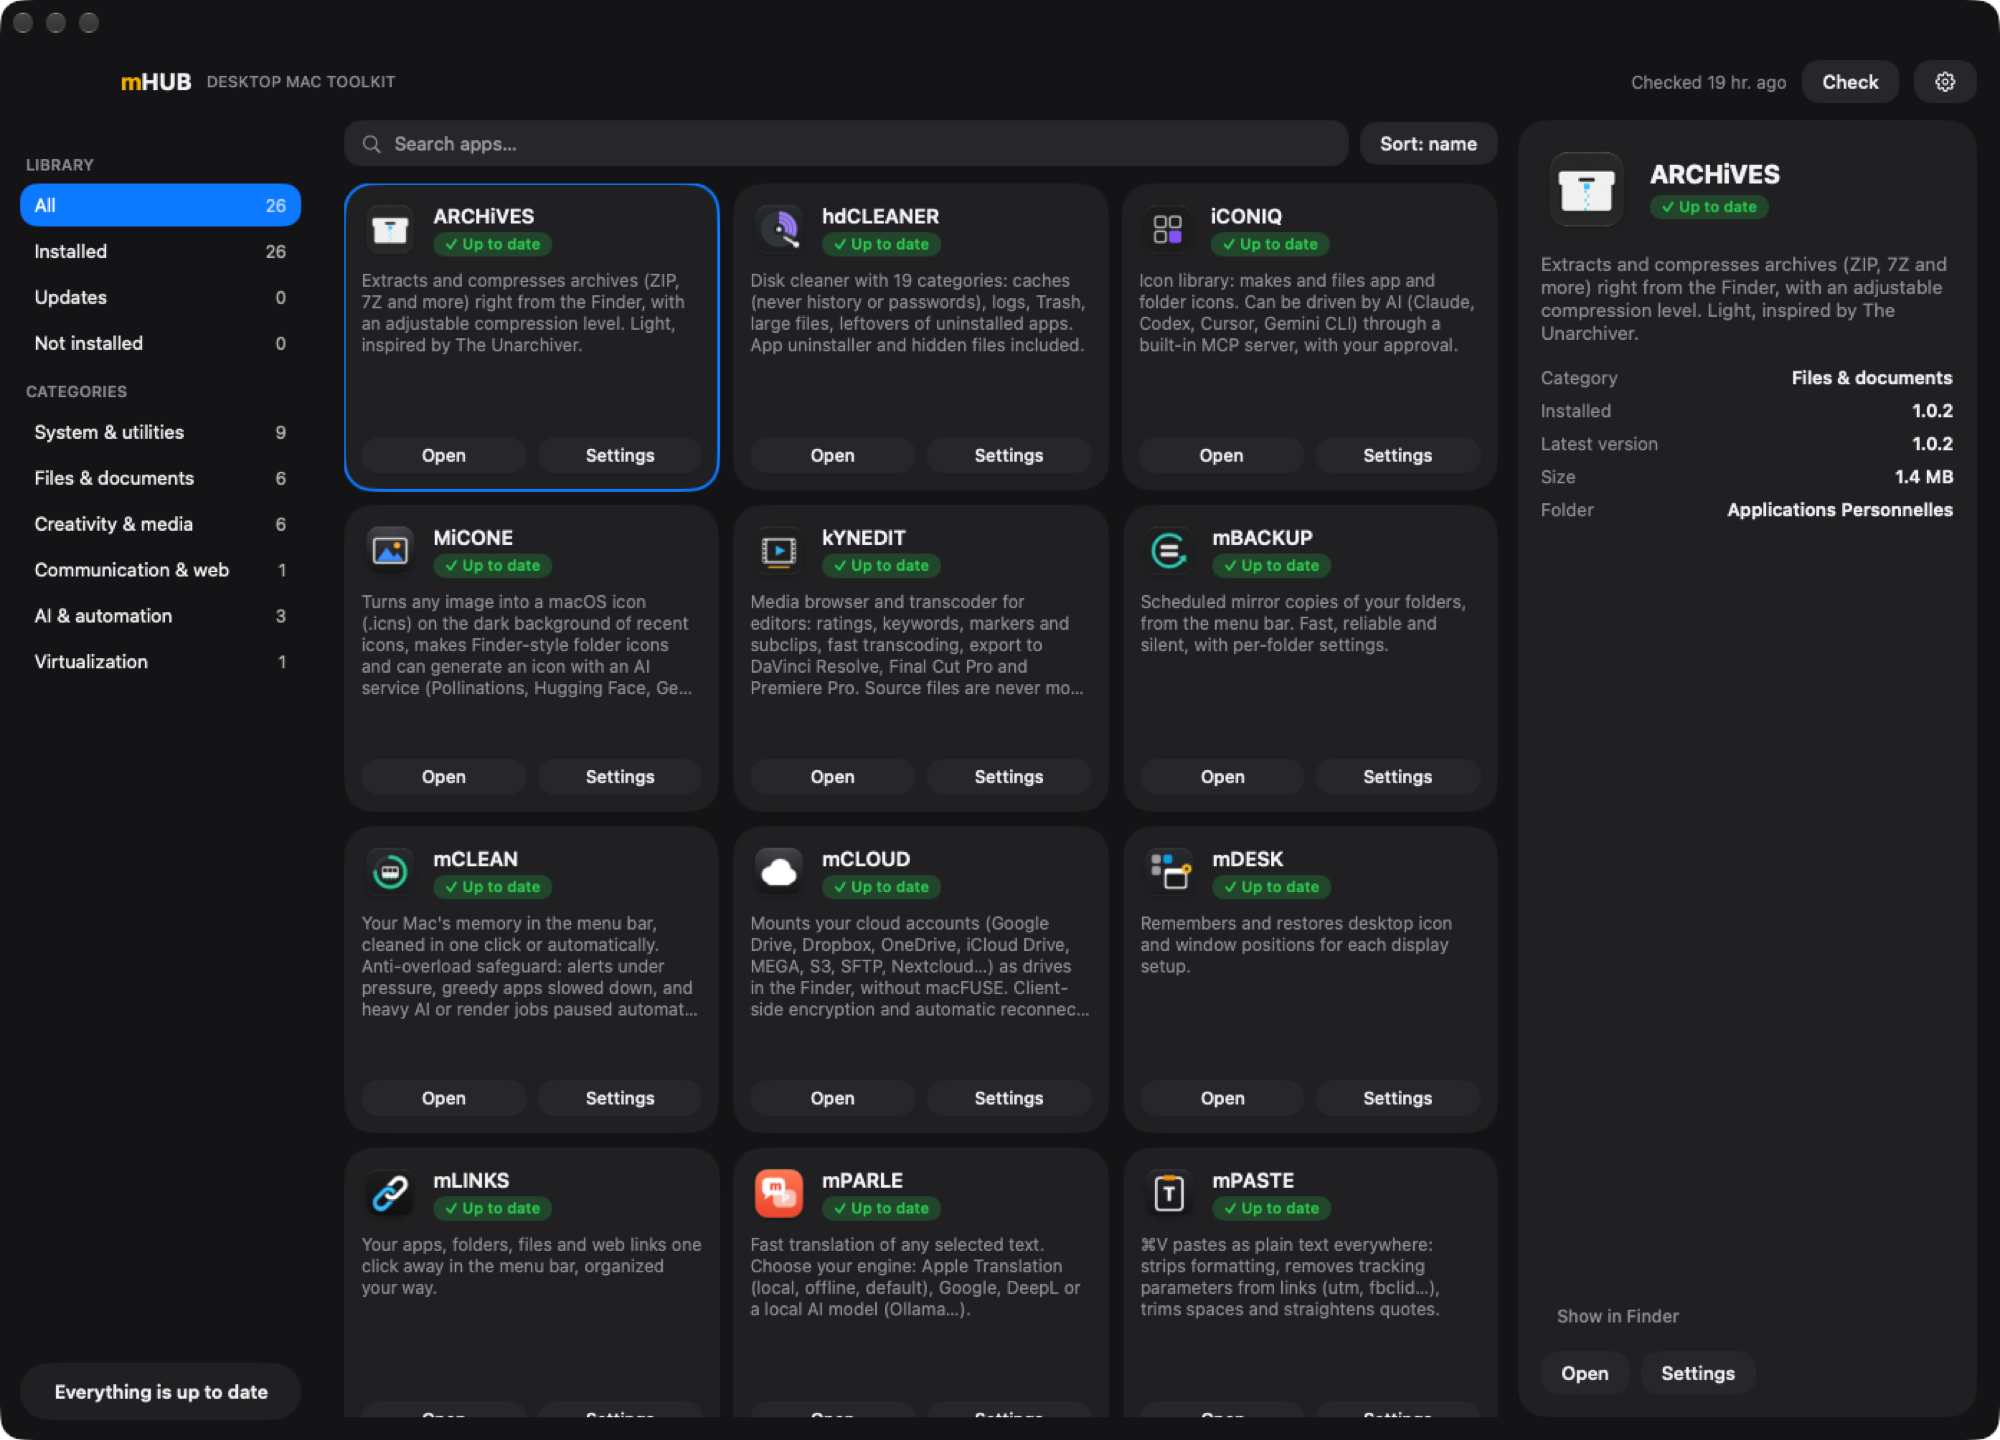
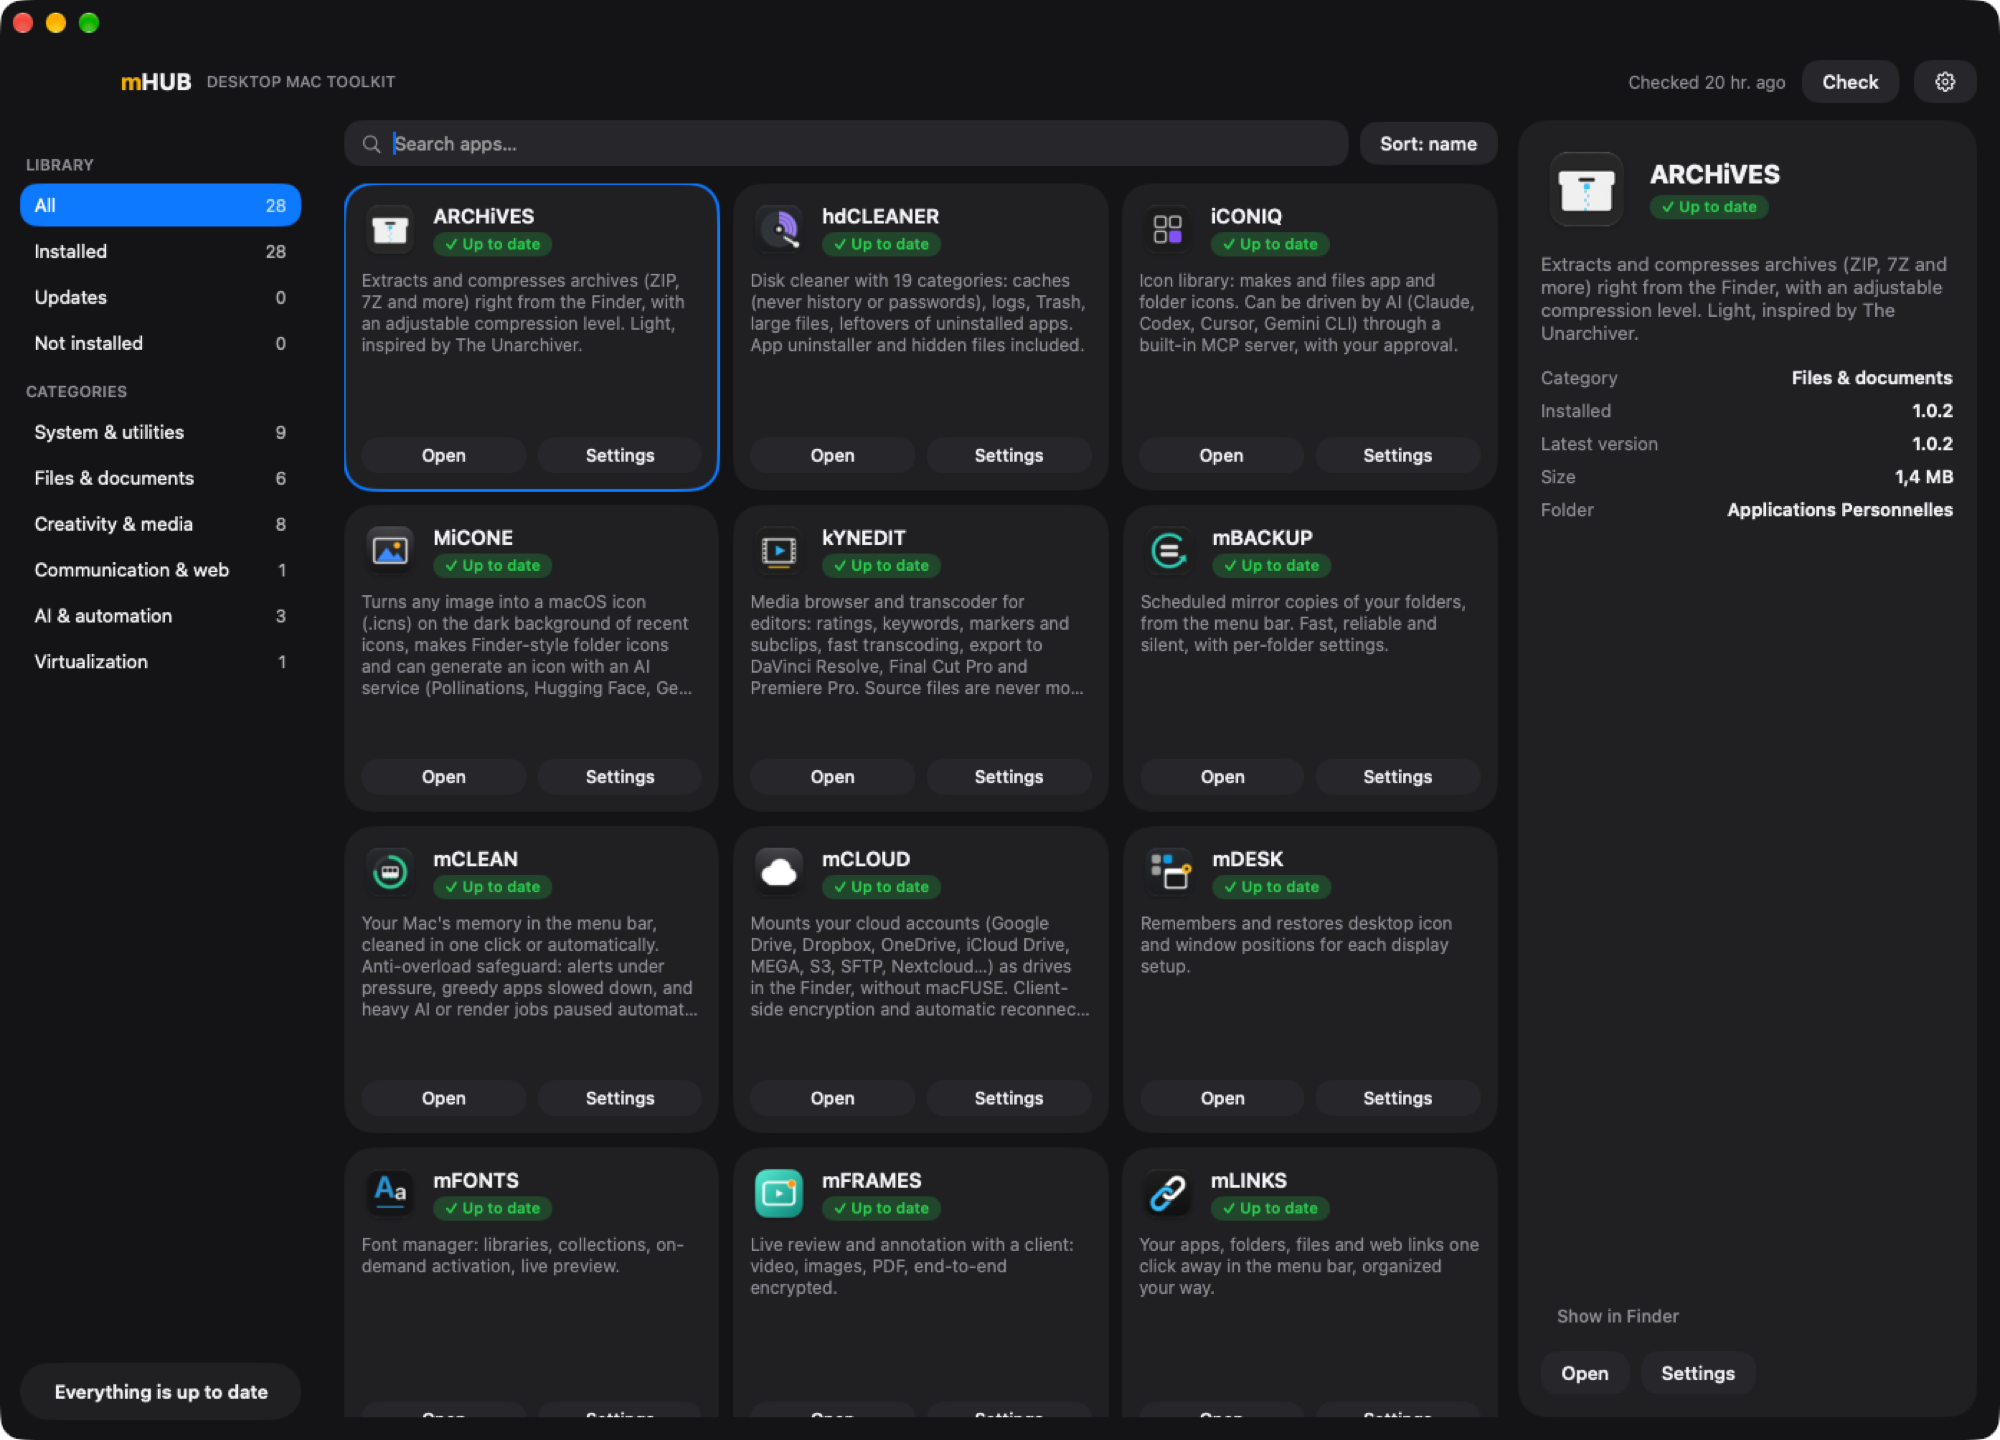
1.1.2 : mFRAMES et mFONTS au catalogue (28 applis), capture à jour

diff --git a/tools/gen_catalogue.py b/tools/gen_catalogue.py
@@ -4,6 +4,8 @@ import json, os
 G = ("Application du Mac Desktop Toolkit.", "Mac Desktop Toolkit app.", "Aplicación del Mac Desktop Toolkit.", "App del Mac Desktop Toolkit.")
 # id, bundle, repo (None = pas encore publique), catégorie, (fr, en, es, it) ou None, réglages (None | {"url":..} | {"args":[..]})
 A = [
+ ("mFRAMES","fr.stephan.mframes","mFRAMES","creative",("Review et annotation en direct avec un client : vidéo, images, PDF, chiffré de bout en bout.","Live review and annotation with a client: video, images, PDF, end-to-end encrypted.","Revisión y anotación en directo con un cliente: vídeo, imágenes, PDF, cifrado de extremo a extremo.","Revisione e annotazione in diretta con un cliente: video, immagini, PDF, cifratura end-to-end."),None),
+ ("mFONTS","fr.stephan.mfonts","mFONTS","creative",("Gestionnaire de polices : bibliothèques, collections, activation à la demande, aperçu en direct.","Font manager: libraries, collections, on-demand activation, live preview.","Gestor de fuentes: bibliotecas, colecciones, activación bajo demanda, vista previa en directo.","Gestore di font: librerie, raccolte, attivazione su richiesta, anteprima dal vivo."),None),
  ("ARCHiVES","fr.stephan.archives","ARCHiVES","files",("Extraction et compression d'archives, directement dans le Finder.", "Archive extraction and compression, right in the Finder.", "Extracción y compresión de archivos, directamente en el Finder.", "Estrazione e compressione di archivi, direttamente nel Finder."),None),
  ("MiCONE","fr.stephan.micone","MiCONE","creative",("Transforme n'importe quelle image en icône macOS (.icns).","Turns any image into a macOS icon (.icns).","Convierte cualquier imagen en un icono de macOS (.icns).","Trasforma qualsiasi immagine in un'icona macOS (.icns)."),None),
  ("TESSERaCT","fr.stephan.tesseract","TESSERaCT","system",("Découvre et récupère des images de systèmes ARM64 (BSD, Linux…).","Discover and fetch ARM64 system images (BSD, Linux…).","Descubre y descarga imágenes de sistemas ARM64 (BSD, Linux…).","Scopri e scarica immagini di sistemi ARM64 (BSD, Linux…)."),None),
